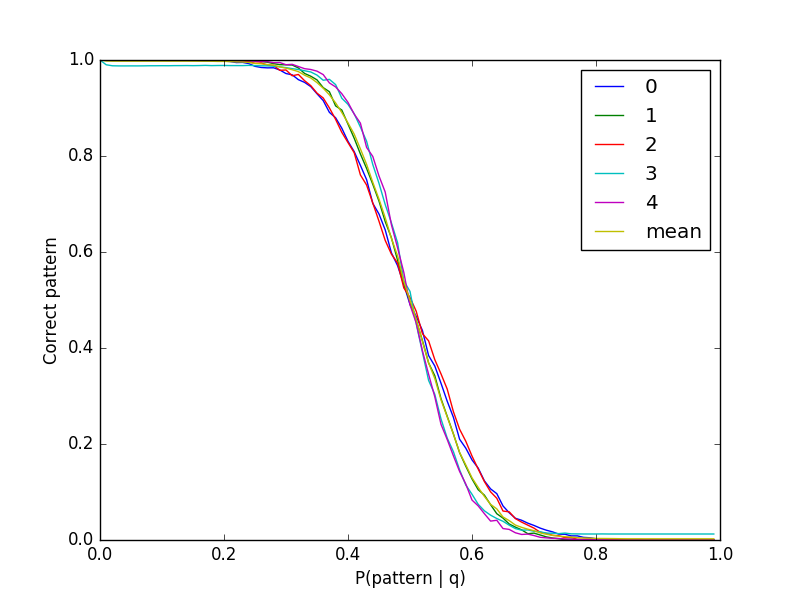
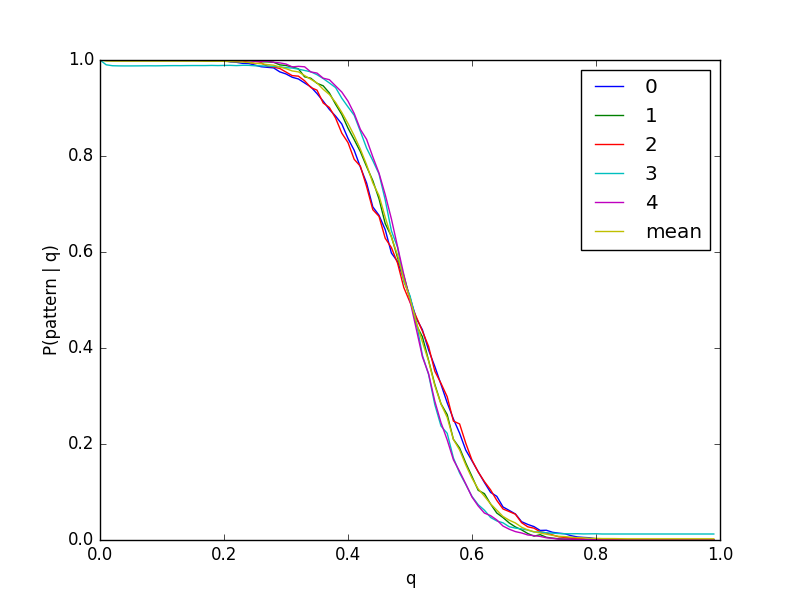
fixed plots

diff --git a/ex2.py b/ex2.py
@@ -50,8 +50,8 @@ def run(iters=100, debug=False):
     plt.plot(x_axis, error_digit)
     plt.plot(x_axis, error_mean)
     plt.legend(["0", "1", "2", "3", "4", "mean"])
-    plt.xlabel("P(pattern | q)")
-    plt.ylabel("Correct pattern")
+    plt.ylabel("P(pattern | q)")
+    plt.xlabel("q")
 #     y = expit(np.linspace(-6,6,100))
 #     plt.plot(x_axis, y)
     plt.savefig("ex2")

diff --git a/ex1.py b/ex1.py
@@ -57,6 +57,7 @@ def _plot(errors, N, P):
 #     plt.legend((n100, n200), ("N=100", "N=200"), scatterpoints=1)
     plt.xlabel("p/N")
     plt.ylabel("P(Error)")
+    plt.savefig("ex1")
     plt.show()
 
 def crosstalk_term(patterns):
